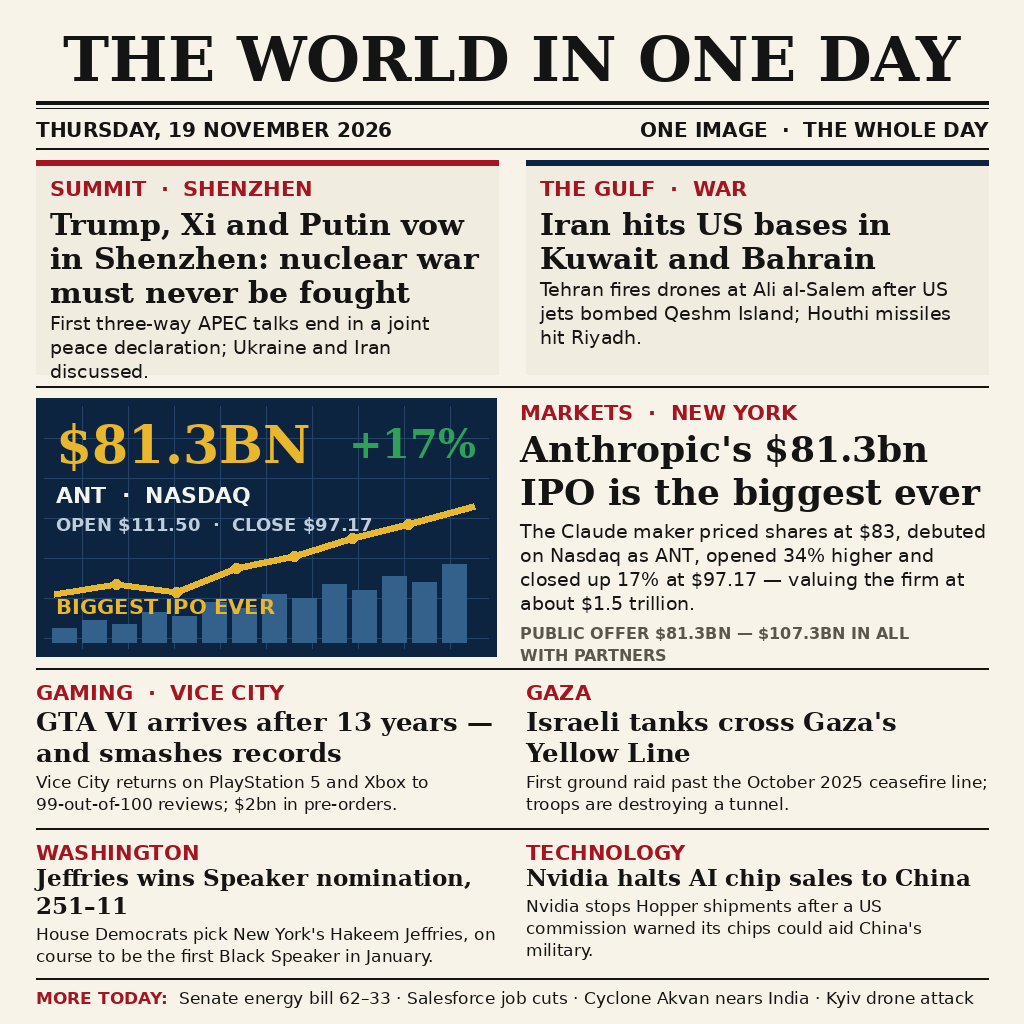
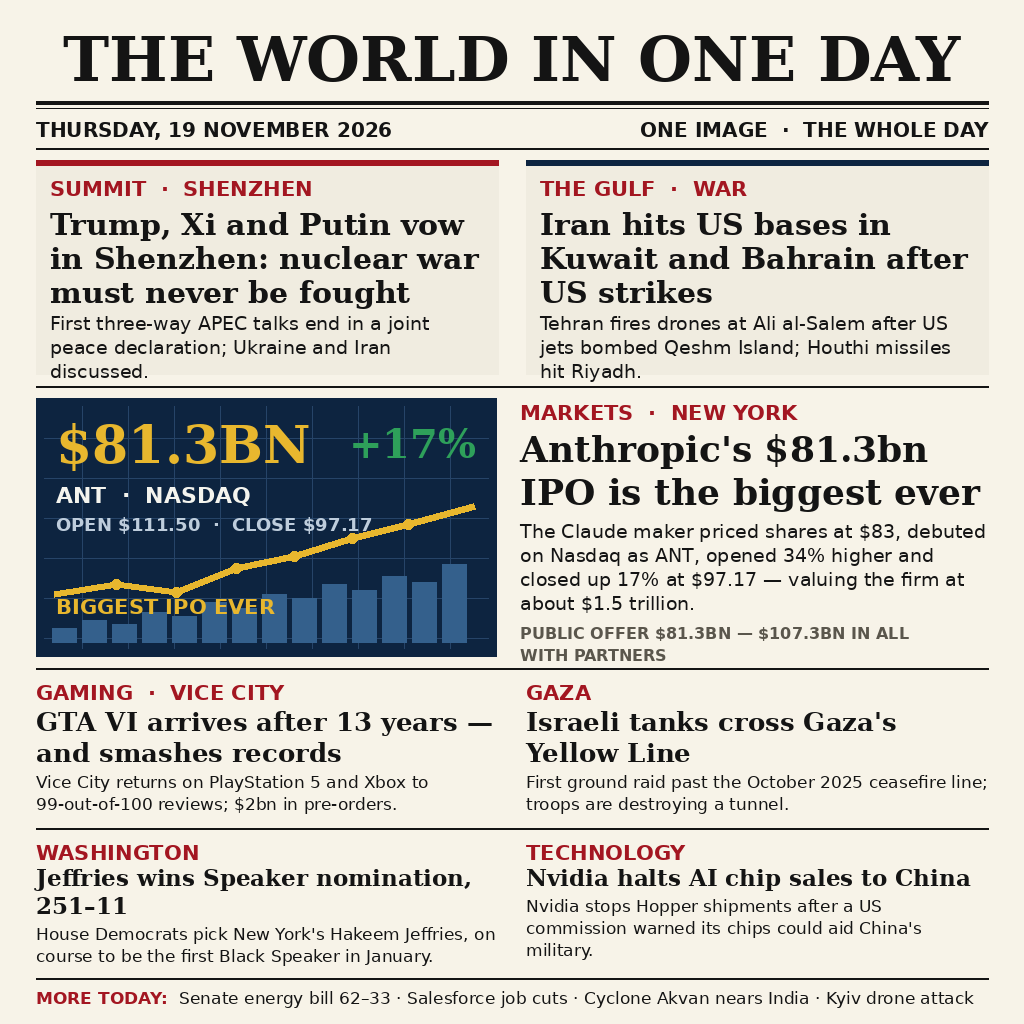
news-image-20261119 round 5: Gulf headline carries the cause (after US strikes)

Changed region(s): [[0.5312, 0.2188, 0.9375, 0.375]]

diff --git a/main.py b/main.py
@@ -162,7 +162,7 @@ def build_poster():
          "First three-way APEC talks end in a joint peace "
          "declaration; Ukraine and Iran discussed."),
         (NAVY, "THE GULF  ·  WAR",
-         "Iran hits US bases in Kuwait and Bahrain",
+         "Iran hits US bases in Kuwait and Bahrain after US strikes",
          "Tehran fires drones at Ali al-Salem after US jets bombed "
          "Qeshm Island; Houthi missiles hit Riyadh."),
     ]
